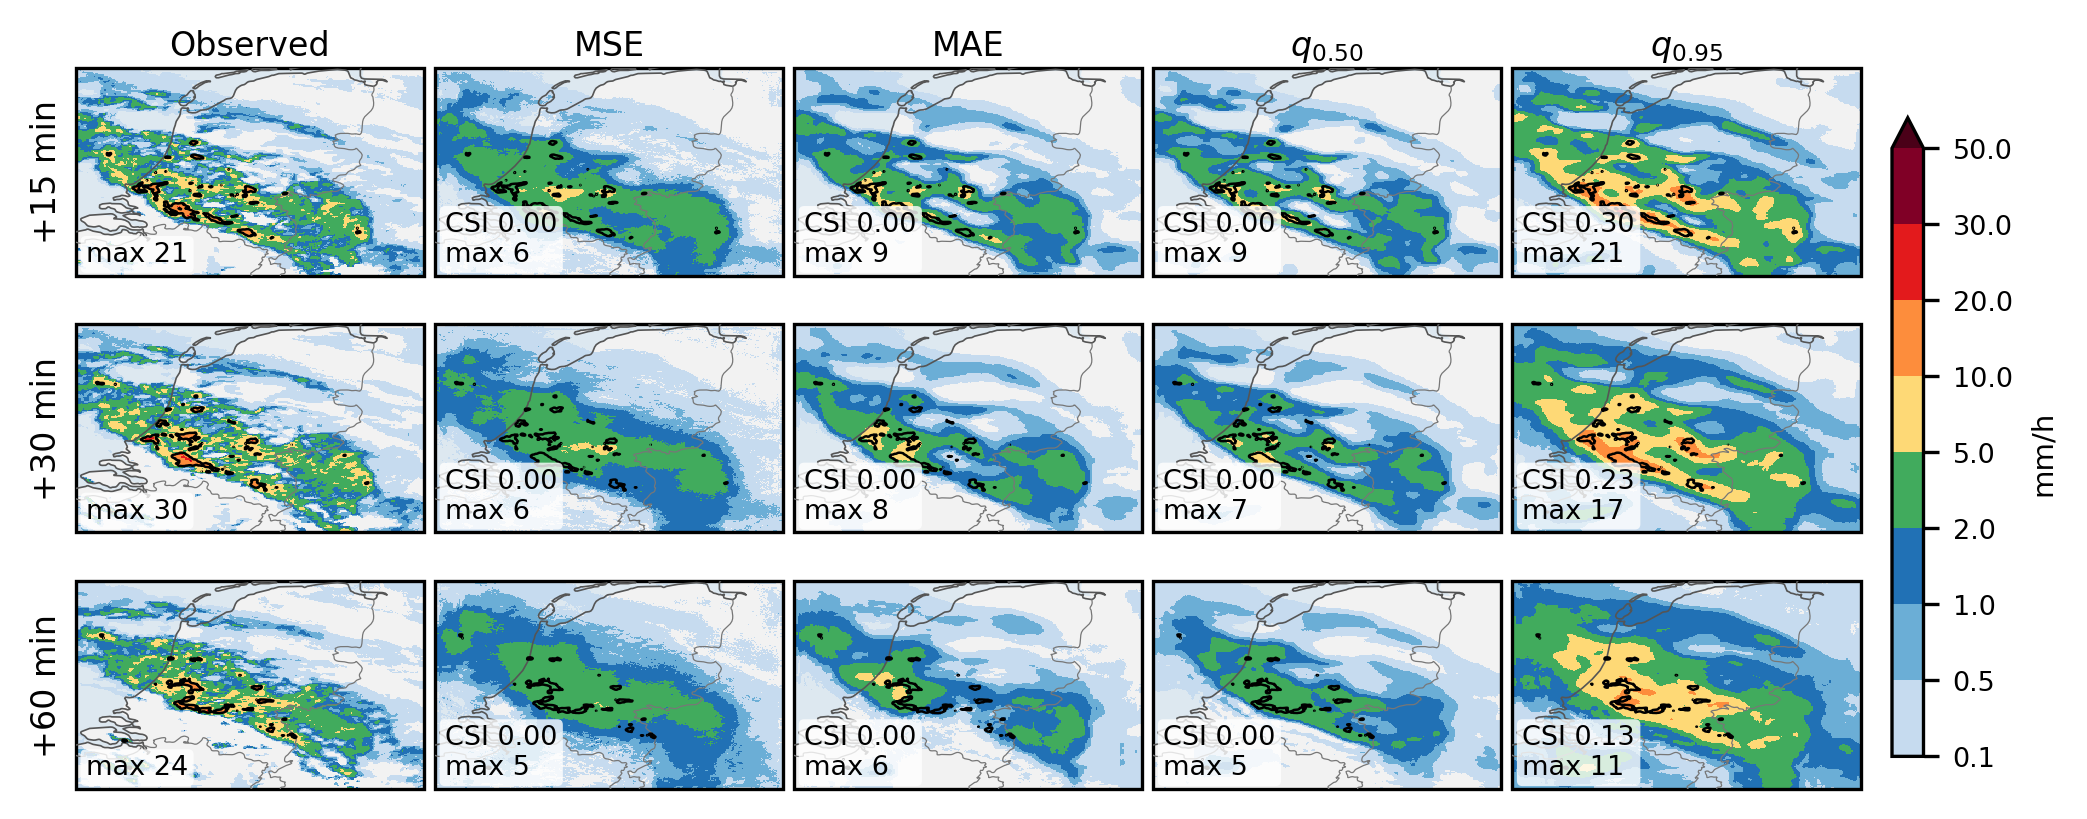
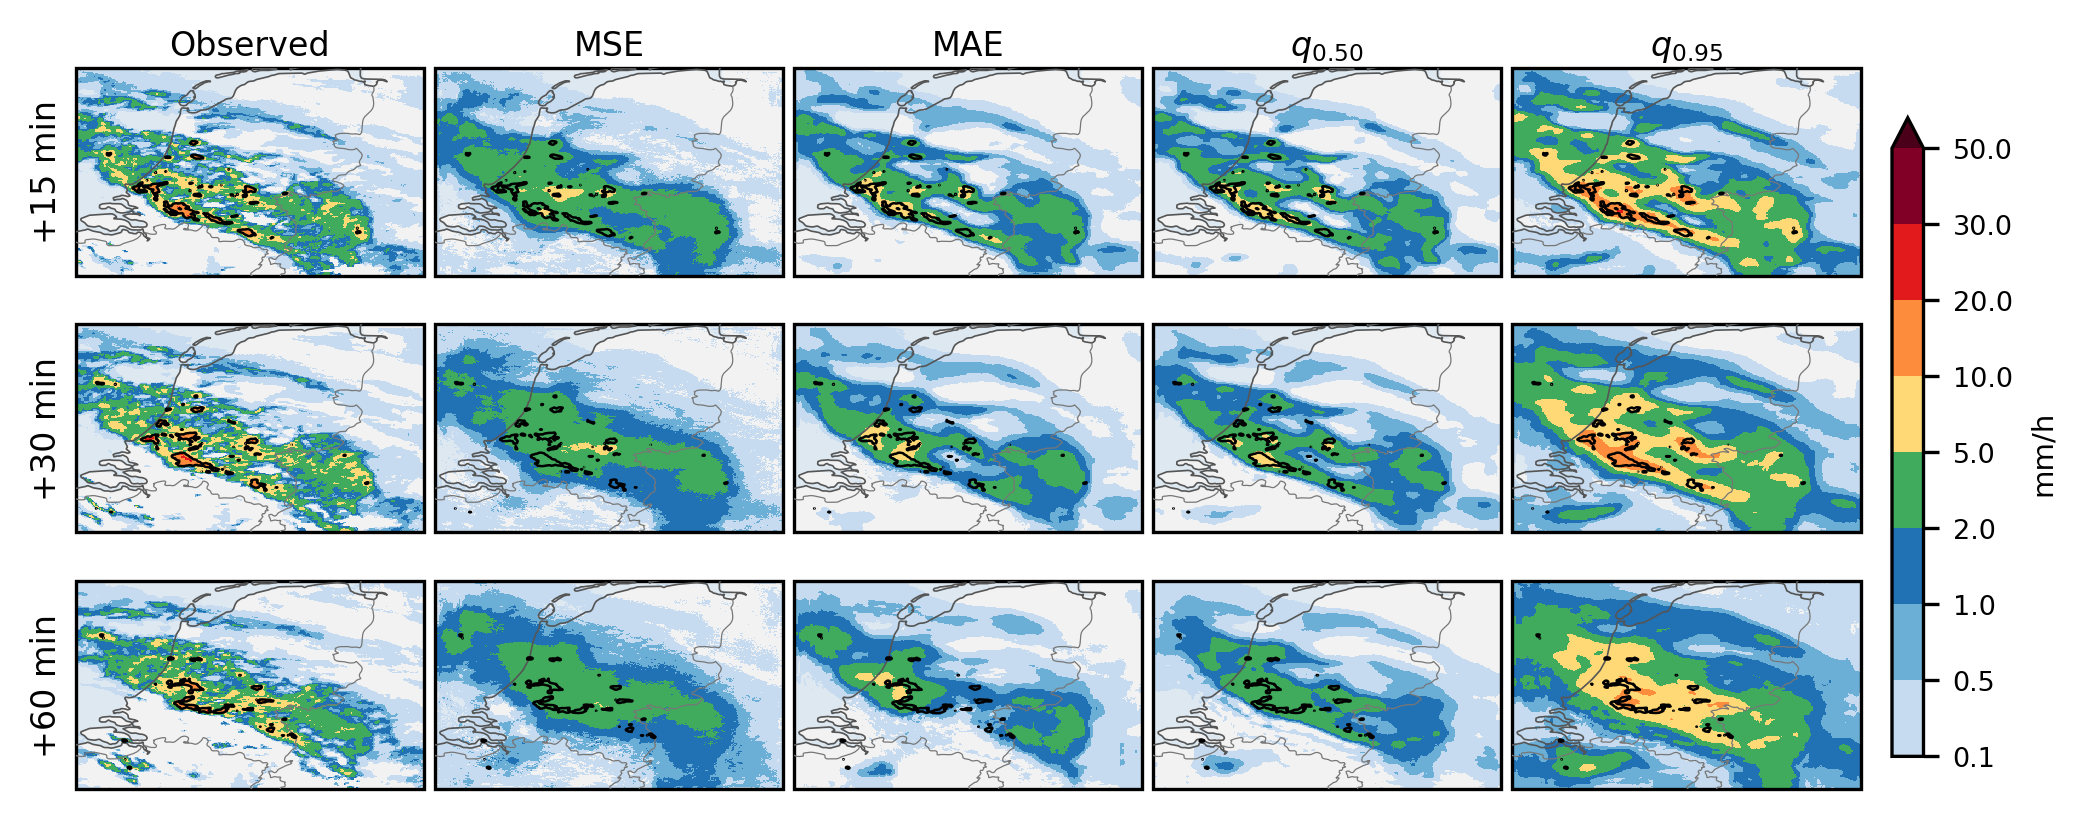
Drop per-panel CSI/max labels by default (--annotate to restore)

diff --git a/qualitative_figure.py b/qualitative_figure.py
@@ -400,6 +400,8 @@ def render_sample(ds, models, sample, args, out_dir, quick=False):
             if not use_cartopy:
                 ax.set_xlim(ext[0], ext[1]); ax.set_ylim(ext[2], ext[3]); ax.set_aspect("auto")
 
+            if not getattr(args, "annotate", False):
+                continue
             peak = fields[name][L].max()           # full-domain peak
             if name == "Observed":
                 txt = f"max {peak:.0f}"
@@ -466,6 +468,8 @@ def parse_args():
     common.add_argument("--width", type=float, default=7.0, help="Figure width in inches (PRL full width ~7.1).")
     common.add_argument("--fontsize", type=float, default=8)
     common.add_argument("--dpi", type=int, default=300)
+    common.add_argument("--annotate", action=argparse.BooleanOptionalAction, default=False,
+                        help="Write per-panel CSI and peak-intensity labels (off by default).")
 
     s = sub.add_parser("scan", parents=[common])
     s.add_argument("--batch-size", type=int, default=16)
